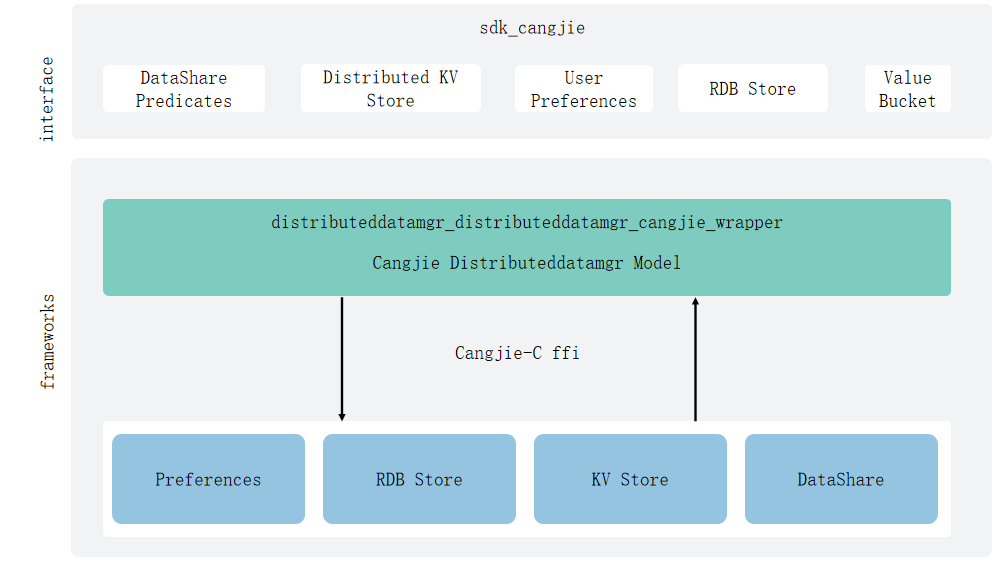
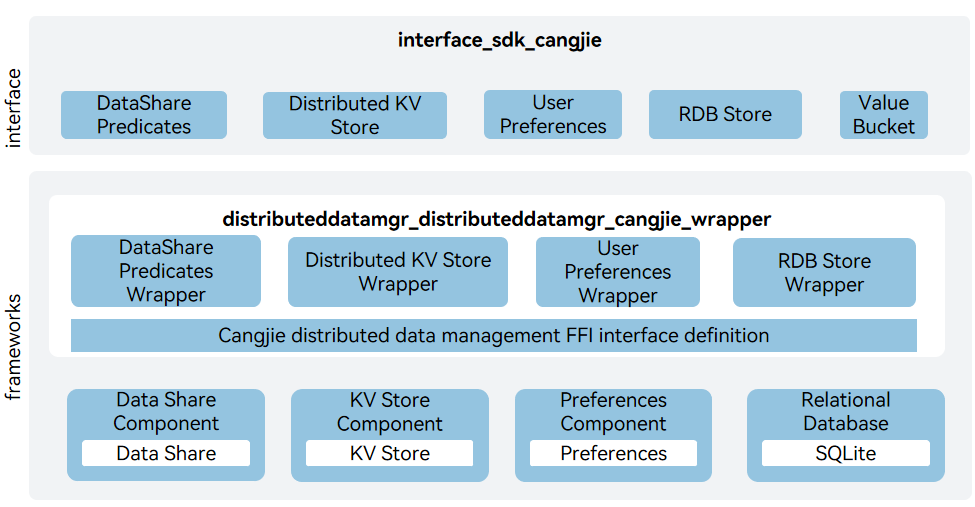
readme

diff --git a/README.md b/README.md
@@ -2,28 +2,39 @@
 
 ## Introduction
 
-The distributeddatamgr_cangjie_wrapper is a Cangjie API encapsulated on OpenHarmony based on the capabilities of the DistributedDataManager Subsystem. The **DistributedDataManager** subsystem implements persistence of a variety of structured data on a single device and data sync and sharing across devices. It allows application data to be seamlessly processed across devices, ensuring consistent user experience for the same application across devices.
+The distributeddatamgr_cangjie_wrapper is a Cangjie API encapsulated on OpenHarmony based on the capabilities of the DistributedDataManager Subsystem. The DistributedDataManager subsystem implements persistence of a variety of structured data on a single device and data sync and sharing across devices. It allows application data to be seamlessly processed across devices, ensuring consistent user experience for the same application across devices.The distributeddatamgr cangjie interface currently under development only supports standard devices.
 
-The following figure shows the architecture of the **DistributedDataManager** subsystem.
-
-**Figure 1** Architecture
+## System Architecture
 
 ![](figures/distributeddatamgr_cangjie_wrapper_architecture_en.png)
 
+**Figure 1** Architecture of the distributeddatamgr_cangjie_wrapper
+
+As shown in the architecture diagram:
+
+-   DataShare Predicates: Provide data sharing predicates for implementing different query methods.
+-   Distributed KV Store: Provide distributed collaboration capabilities for databases between different devices.
+-   User Preferences: Provide Key-Value type data processing capabilities.
+-   RDB Store: Provide a complete mechanism for managing local databases.
+-   Value Bucket: Provide a collection of data to be inserted into the database.
+-   Cangjie distributed data management FFI interface definition: Responsible for defining the C interoperability Cangjie interface, which is used to realize the Cangjie distributed data management capabilities.
+-   DataShare Component: Provide data sharing predicate capabilities, and providing the package C interface to Cangjie for interoperability.
+-   KV Store Component: Provide distributed collaboration capabilities for databases between different devices, and providing the package C interface to Cangjie for interoperability.
+-   Preferences Component: Provide Key-Value type data processing capabilities, and providing the package C interface to Cangjie for interoperability.
+-   Relational Database: Provide local database management mechanisms, and providing the package C interface to Cangjie for interoperability.
+
 ## Directory Structure
 
-Level 1 and 2 directories of the **DistributedDataManager** subsystem:
+The structure of the repository directory is as follows:
 
 ```
 foundation/distributeddatamgr/distributeddatamgr_cangjie_wrapper
-├── ohos             # Cangjie DistributedDataManager code
-├── kit              # Cangjie kit code
 ├── figures          # architecture pictures
+├── kit              # Cangjie kit code
+│   └── ArkData
+└── ohos             # Cangjie DistributedDataManager code
+    └── data
 ```
-
-## Constraints
-
-The distributeddatamgr cangjie interface currently under development only supports standard devices.
 
 ## Usage
 
@@ -53,45 +64,13 @@ Compared to ArkTS, the following features are currently not supported:
 -   DataShare Result Set.
 
 For distributeddatamgr APIs, please refer to
-1. [ohos.data.data_share_predicates](https://gitcode.com/openharmony-sig/arkcompiler_cangjie_ark_interop/blob/master/doc/API_Reference/source_en/apis/ArkData/cj-apis-data_share_predicates.md)。
-2. [ohos.data.distributed_kv_store](https://gitcode.com/openharmony-sig/arkcompiler_cangjie_ark_interop/blob/master/doc/API_Reference/source_en/apis/ArkData/cj-apis-distributed_kv_store.md)。
-3. [ohos.data.preferences](https://gitcode.com/openharmony-sig/arkcompiler_cangjie_ark_interop/blob/master/doc/API_Reference/source_en/apis/ArkData/cj-apis-preferences.md)。
-4. [ohos.data.relational_store](https://gitcode.com/openharmony-sig/arkcompiler_cangjie_ark_interop/blob/master/doc/API_Reference/source_en/apis/ArkData/cj-apis-relational_store.md)。
-5. [ohos.data.values_bucket](https://gitcode.com/openharmony-sig/arkcompiler_cangjie_ark_interop/blob/master/doc/API_Reference/source_en/apis/ArkData/cj-apis-values_bucket.md)。
+1. [ohos.data.data_share_predicates](https://gitcode.com/openharmony-sig/arkcompiler_cangjie_ark_interop/blob/master/doc/API_Reference/source_en/apis/ArkData/cj-apis-data_share_predicates.md)
+2. [ohos.data.distributed_kv_store](https://gitcode.com/openharmony-sig/arkcompiler_cangjie_ark_interop/blob/master/doc/API_Reference/source_en/apis/ArkData/cj-apis-distributed_kv_store.md)
+3. [ohos.data.preferences](https://gitcode.com/openharmony-sig/arkcompiler_cangjie_ark_interop/blob/master/doc/API_Reference/source_en/apis/ArkData/cj-apis-preferences.md)
+4. [ohos.data.relational_store](https://gitcode.com/openharmony-sig/arkcompiler_cangjie_ark_interop/blob/master/doc/API_Reference/source_en/apis/ArkData/cj-apis-relational_store.md)
+5. [ohos.data.values_bucket](https://gitcode.com/openharmony-sig/arkcompiler_cangjie_ark_interop/blob/master/doc/API_Reference/source_en/apis/ArkData/cj-apis-values_bucket.md)
 
-For relevation guidance, please refer to [Database Development Guide](https://gitcode.com/openharmony-sig/arkcompiler_cangjie_ark_interop/blob/master/doc/Dev_Guide/source_en/database)。
-
-## Component Description
-
-### KV Store
-
-The distributed KV store provides distributed collaboration of KV stores across devices. By calling the APIs of **distributedKVStore**, applications can save data to distributed KV stores and perform operations, such as adding, deleting, modifying, querying, and synchronizing data in distributed KV stores.
-
-The **distributedKVStore** module provides the following functions:
-
-- KVManager: provides a **KVManager** instance for obtaining KV store information.
-- KVStoreResultSet: provides APIs for accessing the result obtained from a KV store.
-- Query: provides APIs for setting predicates for data query.
-- SingleKVStore: provides APIs for querying and syncing data in single KV stores, which manage data without distinguishing devices.
-- DeviceKVStore: provides APIs for querying and syncing data in device KV stores, which inherit from SingleKVStore and manage data by device.
-
-### Preferences
-
-The **Preferences** module allows quick access to data in KV pairs and storage of a small amount of data for local applications. The data is stored in local files in KV pairs and loaded in memory, which allows for faster access and higher processing efficiency. **Preferences** provides non-relational data storage and is not suitable for storing a large amount of data.
-
-1.  The **Preferences** module provides APIs for **preferences** operations.
-2.  You can use **getPreferences()** to load the data of a file to a **Preferences** instance. Each file has only one **Preferences** instance. The system stores the instance data in memory through a static container until the application removes the instance from the memory or deletes the file.
-3.  After obtaining a **Preferences** instance, the application can call **Preferences** APIs to read data from or write data to the **Preferences** instance, and call **flush()** to save the instance data to a file.
-
-### RDB Store
-
-The RDB store manages data based on relational models. The OpenHarmony RDB store provides a complete mechanism for managing a local database based on the underlying SQLite.
-
-With the SQLite as the persistence engine, the RDB store supports all SQLite features, including transactions, indexes, views, triggers, foreign keys, parameterized queries, prepared SQL statements, and more.
-
-### UDMF
-
-The UDMF provides standard data channels for many-to-many data sharing across applications and provides standard APIs for data access. It also provides standard definitions for data types, such as text and image, to streamline data interaction between different applications and minimize the workload of data type adaptation.
+For relevation guidance, please refer to [Database Development Guide](https://gitcode.com/openharmony-sig/arkcompiler_cangjie_ark_interop/blob/master/doc/Dev_Guide/source_en/database)
 
 ## Code Contribution
 

diff --git a/README_zh.md b/README_zh.md
@@ -2,31 +2,39 @@
 
 ## 简介
 
-**内容介绍**
+分布式数据管理仓颉接口是在 OpenHarmony 上基于分布式数据管理子系统能力之上封装的仓颉API。分布式数据管理子系统支持单设备的各种结构化数据的持久化，以及跨设备之间数据的同步、共享功能。开发者通过分布式数据管理仓颉，能够方便地完成应用程序数据在不同终端设备间的无缝衔接，满足用户跨设备使用数据的一致性体验。当前开发的分布式数据管理仓颉接口仅支持standard设备。
 
-分布式数据管理仓颉接口是在 OpenHarmony 上基于分布式数据管理子系统能力之上封装的仓颉API。分布式数据管理子系统支持单设备的各种结构化数据的持久化，以及跨设备之间数据的同步、共享功能。开发者通过分布式数据管理仓颉，能够方便地完成应用程序数据在不同终端设备间的无缝衔接，满足用户跨设备使用数据的一致性体验。
-
-
-**分布式数据管理仓颉接口架构**
-
-**图 1**  分布式数据管理仓颉接口架构图
+## 系统架构
 
 ![](figures/distributeddatamgr_cangjie_wrapper_architecture.png)
 
+**图 1**  分布式数据管理仓颉接口架构图
+
+如架构图所示：
+
+-   数据共享谓词：提供用于不同实现不同查询方法的数据共享谓词。
+-   分布式键值数据库：提供不同设备间数据库的分布式协同能力。
+-   用户首选项：提供Key-Value键值型的数据处理能力。
+-   关系型数据库：提供了一套完整的对本地数据库进行管理的机制。
+-   数据集：提供向数据库插入的数据集合。
+-   分布式数据管理FFI接口定义：定义C互操作仓颉接口，用于实现仓颉分布式数据管理能力。
+-   数据共享部件：提供数据共享谓词能力，封装C接口提供给仓颉进行互操作。
+-   KV数据库部件：提供不同设备间数据库的分布式协同能力 ，封装C接口提供给仓颉进行互操作。
+-   首选项部件：提供Key-Value键值型的数据处理能力，封装C接口提供给仓颉进行互操作。
+-   关系型数据库部件：提供本地数据库管理机制，封装C接口提供给仓颉进行互操作。
+
 ## 目录
 
-分布式数据管理仓颉接口目录描述
+仓目录结构如下：
 
 ```
-foundation/distributeddatamgr/distributeddatamgr_cangjie_wrapper
-├── ohos             # 仓颉分布式数据管理接口实现
+foundation/communication/netmanager_cangjie_wrapper
+├── figures          # 存放README中的架构图
 ├── kit              # 仓颉kit化代码
-├── figures          # 存放readme中的架构图
+│   └── ArkData
+└── ohos             # 仓颉分布式数据管理接口实现
+    └── data
 ```
-
-## 约束
-
-当前开发的分布式数据管理仓颉接口仅支持standard设备。
 
 ## 使用说明
 
@@ -56,41 +64,13 @@ foundation/distributeddatamgr/distributeddatamgr_cangjie_wrapper
 -   数据共享结果集。
 
 分布式数据管理相关API请参见
-1. [ohos.data.data_share_predicates](https://gitcode.com/openharmony-sig/arkcompiler_cangjie_ark_interop/blob/master/doc/API_Reference/source_zh_cn/apis/ArkData/cj-apis-data_share_predicates.md)。
-2. [ohos.data.distributed_kv_store](https://gitcode.com/openharmony-sig/arkcompiler_cangjie_ark_interop/blob/master/doc/API_Reference/source_zh_cn/apis/ArkData/cj-apis-distributed_kv_store.md)。
-3. [ohos.data.preferences](https://gitcode.com/openharmony-sig/arkcompiler_cangjie_ark_interop/blob/master/doc/API_Reference/source_zh_cn/apis/ArkData/cj-apis-preferences.md)。
-4. [ohos.data.relational_store](https://gitcode.com/openharmony-sig/arkcompiler_cangjie_ark_interop/blob/master/doc/API_Reference/source_zh_cn/apis/ArkData/cj-apis-relational_store.md)。
-5. [ohos.data.values_bucket](https://gitcode.com/openharmony-sig/arkcompiler_cangjie_ark_interop/blob/master/doc/API_Reference/source_zh_cn/apis/ArkData/cj-apis-values_bucket.md)。
+1. [ohos.data.data_share_predicates](https://gitcode.com/openharmony-sig/arkcompiler_cangjie_ark_interop/blob/master/doc/API_Reference/source_zh_cn/apis/ArkData/cj-apis-data_share_predicates.md)
+2. [ohos.data.distributed_kv_store](https://gitcode.com/openharmony-sig/arkcompiler_cangjie_ark_interop/blob/master/doc/API_Reference/source_zh_cn/apis/ArkData/cj-apis-distributed_kv_store.md)
+3. [ohos.data.preferences](https://gitcode.com/openharmony-sig/arkcompiler_cangjie_ark_interop/blob/master/doc/API_Reference/source_zh_cn/apis/ArkData/cj-apis-preferences.md)
+4. [ohos.data.relational_store](https://gitcode.com/openharmony-sig/arkcompiler_cangjie_ark_interop/blob/master/doc/API_Reference/source_zh_cn/apis/ArkData/cj-apis-relational_store.md)
+5. [ohos.data.values_bucket](https://gitcode.com/openharmony-sig/arkcompiler_cangjie_ark_interop/blob/master/doc/API_Reference/source_zh_cn/apis/ArkData/cj-apis-values_bucket.md)
 
-相关指导请参见[分布式数据管理开发指南](https://gitcode.com/openharmony-sig/arkcompiler_cangjie_ark_interop/blob/master/doc/Dev_Guide/source_zh_cn/database)。
-
-## 组件说明
-
-### Key-Value数据库
-
-**分布式键值数据库(kv Store)** 为应用程序提供不同设备间数据库的分布式协同能力。通过调用分布式键值数据库各个接口，应用程序可将数据保存到分布式键值数据库中，并可对分布式键值数据库中的数据进行增加、删除、修改、查询、同步等操作。
-
-该模块提供以下分布式键值数据库相关的常用功能：
-
-- KVManager：分布式键值数据库管理实例，用于获取数据库的相关信息。
-- KVStoreResultSet：提供获取数据库结果集的相关方法，包括查询和移动数据读取位置等。
-- Query：使用谓词表示数据库查询，提供创建Query实例、查询数据库中的数据和添加谓词的方法。
-- SingleKVStore：单版本分布式键值数据库，不对数据所属设备进行区分，提供查询数据和同步数据的方法。
-- DeviceKVStore：设备协同数据库，继承自SingleKVStore，以设备维度对数据进行区分，提供查询数据和同步数据的方法。
-
-### 首选项
-
-**首选项（Preferences）** 主要提供轻量级Key-Value操作，支持本地应用存储少量数据，数据存储在本地文件中，同时也加载在内存中，所以访问速度更快，效率更高。首选项提供非关系型数据存储，不宜存储大量数据，经常用于操作键值对形式数据的场景。
-
-1.  本模块提供首选项的操作类，应用通过这些操作类完成首选项操作。
-2.  借助getPreferences，可以将指定文件的内容加载到Preferences实例，每个文件最多有一个Preferences实例，系统会通过静态容器将该实例存储在内存中，直到主动从内存中移除该实例或者删除该文件。
-3.  获取Preferences实例后，可以借助Preferences类的函数，从Preferences实例中读取数据或者将数据写入Preferences实例，通过flush将Preferences实例持久化。
-
-### 关系型数据库
-
-**关系型数据库（Relational Database，RDB）** 是一种基于关系模型来管理数据的数据库。OpenHarmony关系型数据库基于SQLite组件提供了一套完整的对本地数据库进行管理的机制。
-
-OpenHarmony关系型数据库底层使用SQLite作为持久化存储引擎，支持SQLite具有的所有数据库特性，包括但不限于事务、索引、视图、触发器、外键、参数化查询和预编译SQL语句。
+相关指导请参见[分布式数据管理开发指南](https://gitcode.com/openharmony-sig/arkcompiler_cangjie_ark_interop/blob/master/doc/Dev_Guide/source_zh_cn/database)
 
 ## 参与贡献
 
